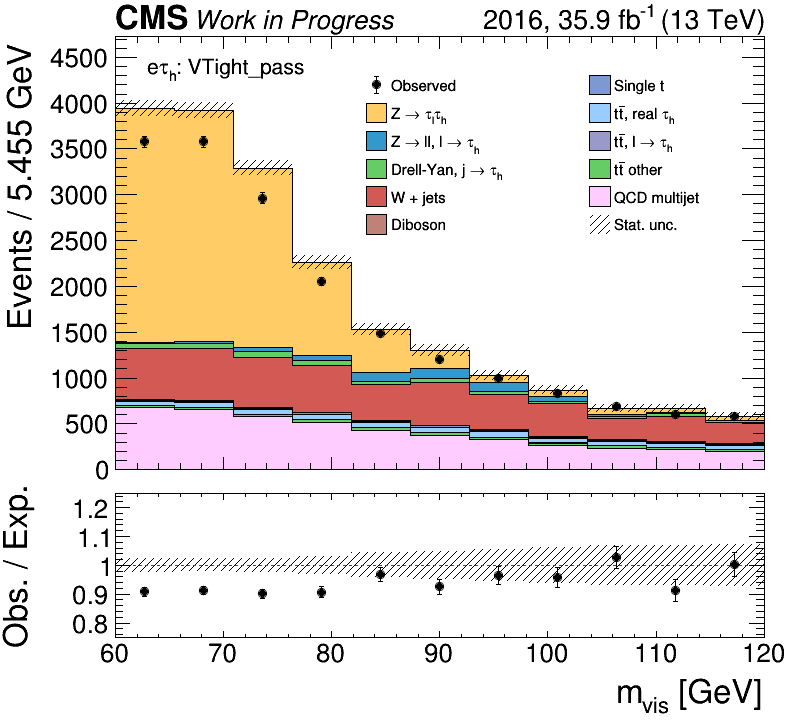
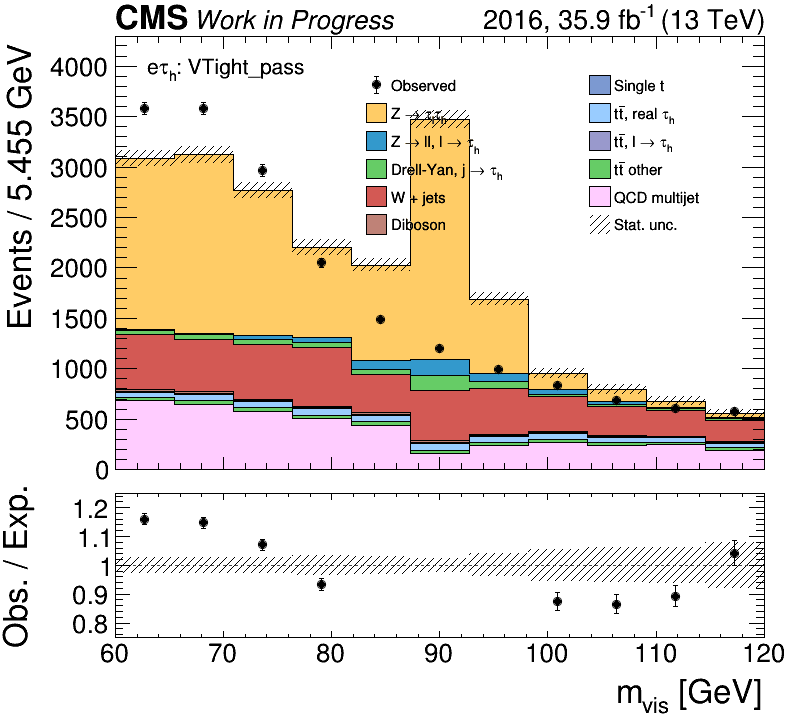
Fix m_vis reso syst bug

diff --git a/Fitter/ETauFR/createinputs.py b/Fitter/ETauFR/createinputs.py
@@ -243,16 +243,20 @@ def main(args):
        # createinputs(fname,samplesets['FESDown'],observables_pass,bins_pass,systs['FES'].dn,filter=systs['FES'].procs)
        # createinputs(fname,samplesets['EESUp'],  observables_pass,bins_pass,systs['EES'].up,filter=systs['EES'].procs)
        # createinputs(fname,samplesets['EESDown'],observables_pass,bins_pass,systs['EES'].dn,filter=systs['EES'].procs)
-        createinputs(fname,samplesets['RESUp'],observables_pass_resUp,bins_pass,systs['RES'].up,filter=systs['RES'].procs, shift="_resoUp")
-        createinputs(fname,samplesets['RESDown'],observables_pass_resDown,bins_pass,systs['RES'].dn,filter=systs['RES'].procs, shift="_resoDown")
+        createinputs(fname,samplesets['Nom'],observables_pass,bins_pass,shift="_resoUp")
+        #createinputs(fname,samplesets['Nom'],observables_pass,bins_pass,shift="_resoDown")
+        #createinputs(fname,samplesets['RESUp'],observables_pass_resUp,bins_pass,systs['RES'].up,filter=systs['RES'].procs, shift="_resoUp")
+        #createinputs(fname,samplesets['RESDown'],observables_pass_resDown,bins_pass,systs['RES'].dn,filter=systs['RES'].procs, shift="_resoDown")
        # createinputs(fname,samplesets['TESUp'],  observables_fail,bins_fail,systs['TES'].up,filter=systs['TES'].procs)
        # createinputs(fname,samplesets['TESDown'],observables_fail,bins_fail,systs['TES'].dn,filter=systs['TES'].procs)
        # createinputs(fname,samplesets['FESUp'],  observables_fail,bins_fail,systs['FES'].up,filter=systs['FES'].procs)
        # createinputs(fname,samplesets['FESDown'],observables_fail,bins_fail,systs['FES'].dn,filter=systs['FES'].procs)
        # createinputs(fname,samplesets['EESUp'],  observables_fail,bins_fail,systs['EES'].up,filter=systs['EES'].procs)
        # createinputs(fname,samplesets['EESDown'],observables_fail,bins_fail,systs['EES'].dn,filter=systs['EES'].procs)
-        createinputs(fname,samplesets['RESUp'],observables_fail_resUp,bins_fail,systs['RES'].up,filter=systs['RES'].procs,shift="_resoUp")
-        createinputs(fname,samplesets['RESDown'],observables_fail_resDown,bins_fail,systs['RES'].dn,filter=systs['RES'].procs,shift="_resoDown")
+        #createinputs(fname,samplesets['Nom'],observables_pass,bins_pass,shift="_resoUp")
+        #createinputs(fname,samplesets['Nom'],observables_pass,bins_pass,shift="_resoDown")
+       #createinputs(fname,samplesets['RESUp'],observables_fail_resUp,bins_fail,systs['RES'].up,filter=systs['RES'].procs,shift="_resoUp")
+       #createinputs(fname,samplesets['RESDown'],observables_fail_resDown,bins_fail,systs['RES'].dn,filter=systs['RES'].procs,shift="_resoDown")
       
       
       ############

diff --git a/Plotter/python/plot/Variable.py b/Plotter/python/plot/Variable.py
@@ -36,7 +36,7 @@ class Variable(object):
     self.nbins        = None
     self.min          = None
     self.max          = None
-    self.bins         = None
+    self.bins         = None # bin edges
     self.cut          = kwargs.get('cut',         ""            ) # extra cut when filling histograms
     self.weight       = kwargs.get('weight',      ""            ) # extra weight when filling histograms (MC only)
     self.dataweight   = kwargs.get('dataweight',  ""            ) # extra weight when filling histograms for data
@@ -119,7 +119,7 @@ class Variable(object):
   def clone(self,*args,**kwargs):
     """Shallow copy."""
     if not args:
-      args = self.nbins,self.min,self.max
+      args = self.nbins, self.min, self.max
     newdict = self.__dict__.copy()
     if 'fname' in kwargs:
       kwargs['filename'] = kwargs['fname']
@@ -154,11 +154,11 @@ class Variable(object):
       self.max      = numbers[2]
       self.bins     = None
     elif len(bins)>0:
-      bins          = list(bins[0])
-      self.nbins    = len(bins)-1
-      self.min      = bins[0]
-      self.max      = bins[-1]
-      self.bins     = bins
+      edges          = list(bins[0])
+      self.nbins    = len(edges)-1
+      self.min      = edges[0]
+      self.max      = edges[-1]
+      self.bins     = edges
     else:
       LOG.throw(IOError,'Variable: bad arguments "%s" for binning!'%(args,))
   
@@ -323,14 +323,15 @@ class Variable(object):
     if len(vshift)>0 and vshift[0]!='_':
       vshift = '_'+vshift
     if vars: # shift only the variables in this list
-      newname = shift(self.name,vshift,**kwargs)
+      newname = shift(self.name,vshift,vars,**kwargs)
     else: # simply add shift at the end
       newname = self.name+vshift
     newvar = deepcopy(self)
     newvar.name = newname # overwrite name
     if not kwargs.get('keepfile',False) and self.name!=newname:
       newvar.filename += vshift # overwrite file name
-    return newvariable
+    #return newvariable#LOR COMM
+    return newvar #LOR MODIFIED
   
   def shiftjme(self,jshift,**kwargs):
     """Create new variable with a shift tag added to its name."""
@@ -341,8 +342,9 @@ class Variable(object):
     newvar.name = newname # overwrite name
     if not kwargs.get('keepfile',False) and self.name!=newname:
       newvar.filename += jshift # overwrite file name
-    return newvariable
-  
+    #return newvariable#LOR COMM
+    return newvar#LOR ADDED
+
   def shiftname(self,vshift,**kwargs):
     """Shift name and return string only (without creating new Variable object)."""
     return shift(self.name,vshift,**kwargs)

diff --git a/Plotter/python/plot/string.py b/Plotter/python/plot/string.py
@@ -1,7 +1,7 @@
 # -*- coding: utf-8 -*-
 # Author: Izaak Neutelings (2017)
 import re
-from TauFW.Plotter.plot.utils import LOG, unwraplistargs, ensurelist
+from TauFW.Plotter.plot.utils import LOG, unwraplistargs, ensurelist, islist
 
 var_dict = {
     'njets':     "Number of jets",          'njets20':  "Number of jets (pt>20 GeV)",
@@ -342,22 +342,26 @@ def cleanbool(string):
   
 
 def undoshift(string):
-  shiftless = re.sub(r"_[a-zA-Z]+(Up|Down|nom)","",string)
+  if islist(string):
+    return [undoshift(s) for s in string]
+  else:
+    shiftless = re.sub(r"_[a-zA-Z]+([Uu]p|[Dd]own|[Nn]om)","",string)
   return shiftless
   
 
-def shift(oldstr, shift, vars, **kwargs):
+def shift(oldstr, shift, vars=["\w+"], **kwargs):
   """Shift all jet variable in a given string (e.g. to propagate JEC/JER).
   E.g. shift('jpt_1>50 && met<50','jecUp',['jpt_[12]','met']) -> 'jpt_1_jecUp>50 && met_jecUp<50'
   """
-  verbosity   = LOG.getverbosity(kwargs)
-  newstr      = oldstr
+  verbosity = LOG.getverbosity(kwargs)
+  newstr    = oldstr
+  vars      = ensurelist(vars)
   if re.search(r"(Up|Down)",oldstr):
     print "shift: already shifts in %r"%(oldstr)
   if kwargs.get('us',True) and len(shift)>0 and shift[0]!='_': # ensure underscore in front
     shift = '_'+shift
   for oldvar in vars: # shift each jet/MET variable
-    oldexp = r'\b('+oldvar+r')\b'
+    oldexp = r"\b("+oldvar+r")\b"
     newexp = r"\1%s"%(shift)
     newstr = re.sub(oldexp,newexp,newstr)
   if verbosity>=1:

diff --git a/Fitter/python/plot/datacard.py b/Fitter/python/plot/datacard.py
@@ -69,8 +69,11 @@ def createinputs(fname,sampleset,obsset,bins,syst="",**kwargs):
   ensuredir(outdir)
   fname = os.path.join(outdir,fname)
   if shift: # shift observable name
-    obsset = [o.shift(shift,keepfile=True) for o in obsset]
-    #bins = [s.shift(shift,keepfile=True) for s in bins]
+    if isinstance(shift,str): # shift only variable by adding tag, e.g. shift='_ResUp'
+      obsset = [o.shift(shift,keepfile=True) for o in obsset]
+    else: # shift specified variables, e.g. shift=('_ResUp','m_vis')
+      obsset = [o.shift(*shift,keepfile=True) for o in obsset]
+      bins = [s.shift(*shift,keepfile=True) for s in bins]
   if shiftjme: # shift jet/MET variables, e.g. shiftjme='jec', 'jer', 'unclen'
     obsset = [o.shiftjme(shiftjme,keepfile=True) for o in obsset]
     bins = [s.shiftjme(shiftjme,keepfile=True) for s in bins]
@@ -98,9 +101,6 @@ def createinputs(fname,sampleset,obsset,bins,syst="",**kwargs):
     print ">>>\n>>> "+color(" %s "%(bin),'magenta',bold=True,ul=True)
     if htag: # hist tag for systematic
       print ">>> systematic uncertainty: %s"%(color(htag.lstrip('_'),'grey'))
-    if shift:
-      #selection.shift(shift)#LOR COMM      
-      selection.shift(shift,None)
     if recreate or verbosity>=1:
       print ">>> %r"%(selection.selection)
     hists = sampleset.gethists(obsset,selection,method=method,split=True,

diff --git a/Plotter/python/sample/Sample.py b/Plotter/python/sample/Sample.py
@@ -605,15 +605,6 @@ class Sample(object):
       weight = joinweights(self.weight,self.extraweight,kwargs.get('weight',""))
     else:
       weight = joinweights(selection.weight,self.weight,self.extraweight,kwargs.get('weight',""))
-<<<<<<< HEAD
-    cuts     = joincuts(selection.selection,self.cuts,kwargs.get('cuts',""),kwargs.get('extracuts',""))
-    if replaceweight:
-      if len(replaceweight)==2 and not islist(replaceweight[0]):
-        replaceweight = [replaceweight]
-      for pattern, newweight in replaceweight:
-        LOG.verb('Sample.gethist: replacing weight: before %r'%weight,verbosity,3)
-        weight = re.sub(pattern,newweight,weight)
-=======
     cuts = joincuts(selection.selection,self.cuts,kwargs.get('cuts',""),kwargs.get('extracuts',""))
     if replaceweight:
       if len(replaceweight) in [2,3] and not islist(replaceweight[0]):
@@ -628,7 +619,6 @@ class Sample(object):
           weight = re.sub(pattern,newweight,weight)
         else:
           weight = weight.replace(pattern,newweight)
->>>>>>> b2e27a611b8c7f5e066abc5928038ef5fd815f08
         weight = weight.replace("**","*").strip('*')
         LOG.verb('Sample.gethist: replacing weight: after  %r'%weight,verbosity,3)
     cuts = joincuts(cuts,weight=weight)

diff --git a/Plotter/python/plot/MultiDraw.py b/Plotter/python/plot/MultiDraw.py
@@ -74,12 +74,15 @@ def MultiDraw(self, varexps, selection='1', drawoption="", **kwargs):
         
         # EXPAND varexp
         weight = None
-        if isinstance(varexp,tuple):
+        if isinstance(varexp,(tuple,list)) and len(varexp)==2:
           varexp, weight = varexp
+        elif not isinstance(varexp,str):
+          raise IOError("MultiDraw: given varexp is not a string or tuple of length 2! Got varexp=%s (%s)"%(varexp,type(varexp)))
         if not varexp: varexp = '1'
         if not weight: weight = '1'
         
         # PREPARE histogram
+        #print varexp, type(varexp)
         match = varregex.match(varexp)
         if match:
             xvar, name, binning = match.group(1), match.group(2), match.group(3)
